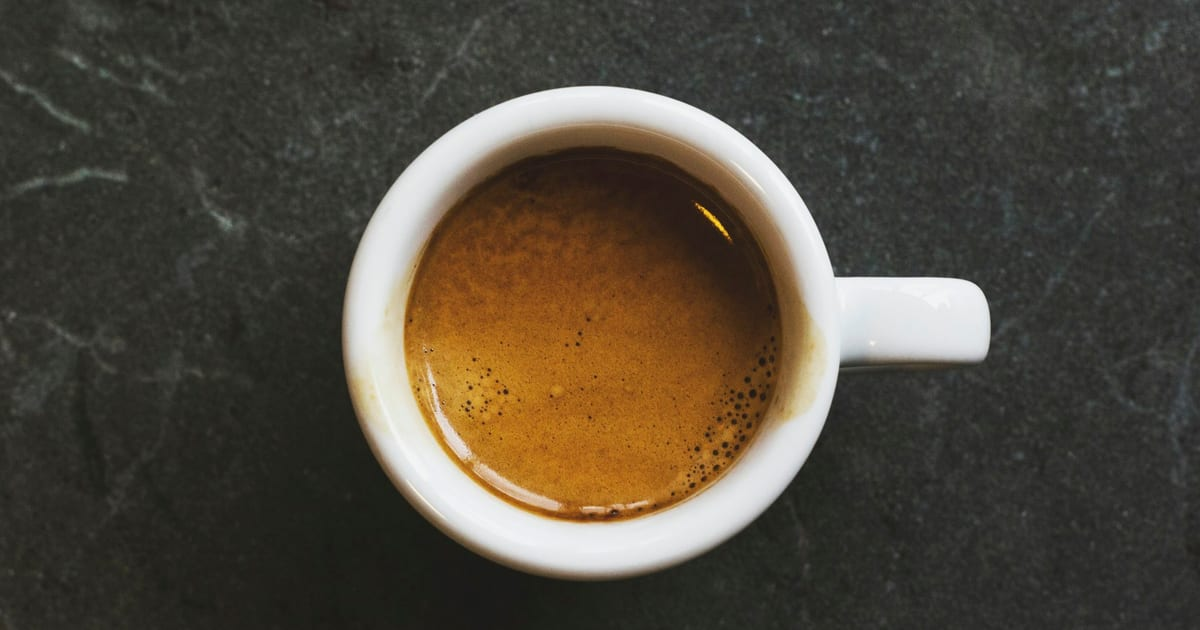
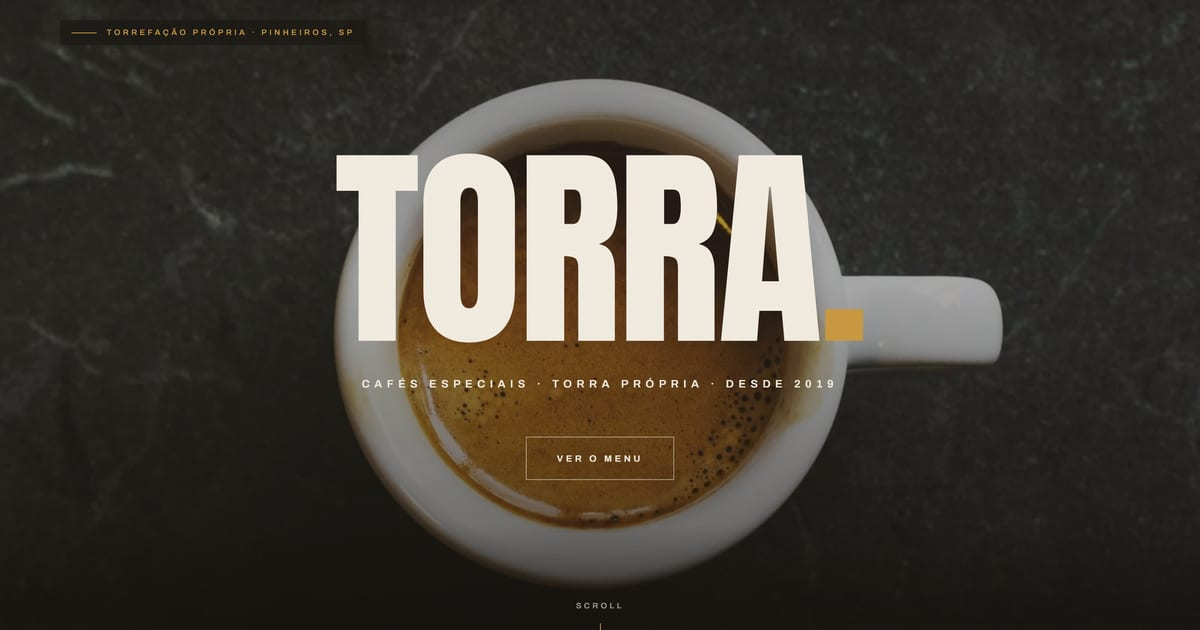
Usa o render do hero como preview do link (OG image)

diff --git a/index.html b/index.html
@@ -20,8 +20,13 @@
       content="Torrefação própria e cafés especiais em Pinheiros, São Paulo. Do espresso ao coado, cada grão no auge do frescor."
     />
     <meta property="og:image" content="/og-image.jpg" />
+    <meta property="og:image:type" content="image/jpeg" />
+    <meta property="og:image:width" content="1200" />
+    <meta property="og:image:height" content="630" />
+    <meta property="og:image:alt" content="TORRA. — torrefação e café em Pinheiros, SP" />
     <meta property="og:locale" content="pt_BR" />
     <meta name="twitter:card" content="summary_large_image" />
+    <meta name="twitter:image" content="/og-image.jpg" />
 
     <!-- Google Fonts -->
     <link rel="preconnect" href="https://fonts.googleapis.com" />
